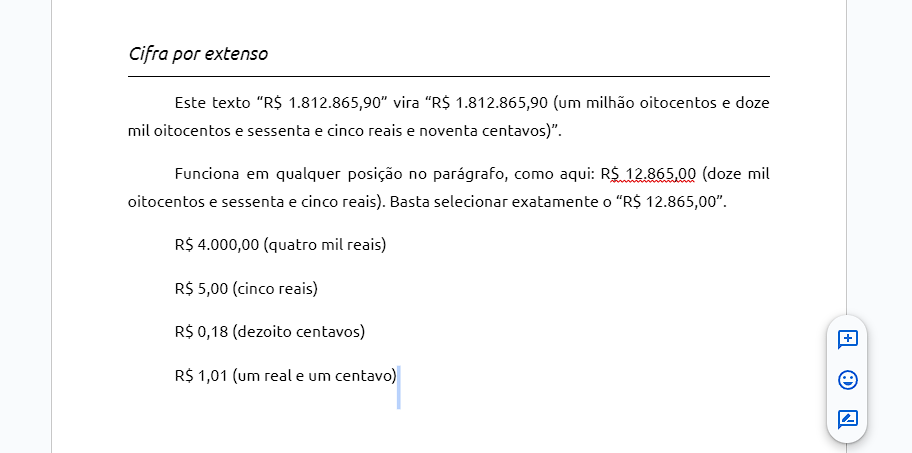
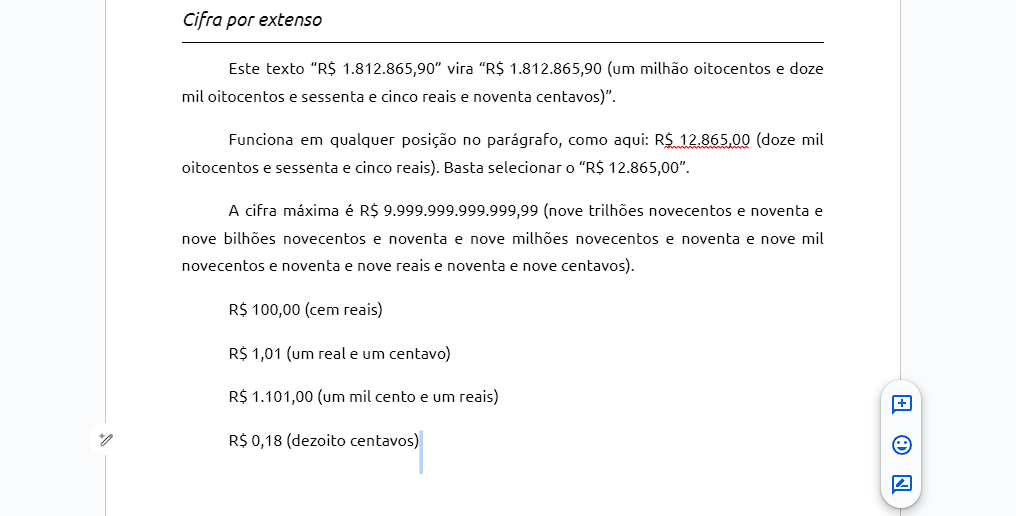
now I just have to add the CC BY-NC license on GitHub

diff --git a/code.js b/code.js
@@ -1,9 +1,9 @@
 // This is a Google Workspace Add-on (GWAO)
-// it's so the add-on can work accross the all documents on the user Docs app.
-// however, the user needs to click on the extension icon to iniate it, which is a limitation.
-// Editor Add-ons would work fine with just an onOpen(e) simple trigger for this extension.
-// However, Editor Add-ons needs to be bound and activated by the user for each document.
-// And activating it in document templates from Google Docs wouldn't transfer to the copies it creates.
+  // it's so the add-on can work accross the all documents on the user Docs app.
+  // The user needs to click on the extension icon to iniate it, which is a limitation of any GWAO.
+// On the other hand, an Editor Add-on would work fine with just an onOpen(e) simple trigger for this script.
+  // However, Editor Add-ons needs to be bound and activated by the user for each document, unlike GWAO.
+  // And activating it in document templates from Google Docs wouldn't transfer to the copies it creates.
 // It's using the CardService instead of HtmlService for the UI (sidebar).
 
 const doc = DocumentApp.getActiveDocument();
@@ -74,24 +74,24 @@ function updateLastDateToToday() {
   // Get today's date
   const today = new Date();
   
-  // Format the date in Portuguese
+  // Format the date in pt-br
   const options = { day: '2-digit', month: 'long', year: 'numeric' };
   const formattedDate = new Intl.DateTimeFormat('pt-BR', options).format(today);
   
   // Convert the formatted date to lowercase
   const formattedDateLowerCase = formattedDate.toLowerCase();
   
-  // Regular expression to match dates in the format "d de MMMM de yyyy" or "dº de MMMM de yyyy"
+  // Regular expression to also match dates in the format "d de MMMM de yyyy" and "dº de MMMM de yyyy"
   const datePattern = /\d{1,2}º? de [a-zçáéíóúãõ]+ de \d{4}/gi;
   
-  // Get the text of the document
+  // Get the text of the whole document
   const text = body.getText();
   
   // Find all matches of the date pattern
   const matches = text.match(datePattern);
   
   if (matches && matches.length > 0) {
-    // Get the last match
+    // Get the last match of the date pattern
     const lastMatch = matches[matches.length - 1];
     
     // Replace the last matched date with the formatted current date
@@ -99,18 +99,20 @@ function updateLastDateToToday() {
   }
 }
 
+// This is an algorithm I contributed with on Stack Overflow
+// I contributed by propely handling single-digits, solving special cases and adding proper formatting
 function escreverPorExtenso(vlr) {
   var Num = parseFloat(vlr);
-  var result = ""; // Use a variable to store the result instead of direct DOM manipulation
+  var result = ""; // Varieble to store the result
 
   if (vlr == 0) {
     result = "zero";
   } else if (vlr > 999 * 1e12) {
     return "Numero maior que 999 trilhões";
   } else {
-    var inteiro = parseInt(vlr); // parte inteira do valor
+    var inteiro = parseInt(vlr); // Integer part of the number
     if (inteiro < 1000000000000000) {
-      var resto = Num.toFixed(2) - inteiro.toFixed(2); // parte fracionária do valor
+      var resto = Num.toFixed(2) - inteiro.toFixed(2); // Decimal part of the number
       resto = resto.toFixed(2);
       var vlrS = inteiro.toString();
 
@@ -172,7 +174,7 @@ function escreverPorExtenso(vlr) {
           auxnumero3 = vlrS.substring(cont - i - 1, cont - i);
           console.log(auxnumero3);
           console.log(extenso);
-          if (auxnumero3 !== "" && auxnumero3 !== "0" && auxnumero3 !== "1")
+          if ((auxnumero3 !== "1" || auxnumero > 9) && auxnumero3 !== "0")
             extenso=extenso+unidade[auxnumero];
               console.log(extenso);
 
@@ -239,34 +241,36 @@ function escreverPorExtenso(vlr) {
           else extenso += " centavos";
       }
 
-      // Handle singular for "real" and "centavo"
+      // Handle special cases
       if (inteiro === 1) {
           extenso = extenso.replace("reais", "real");
       }
       if (resto === 1) {
           extenso = extenso.replace("centavos", "centavo");
       }
-      // Handle special case for "cem reais" (100 reais)
       if (inteiro === 100) {
         extenso = extenso.replace("cento  reais", "cem reais");  
         extenso = extenso.replace("cento reais", "cem reais");
       }
-      // Handle special case for "zero reais" (100 reais)
       if (inteiro === 0) {
         extenso = extenso.replace("reais  e ", "");
         extenso = extenso.replace("reais e ", "");
       }
-      // // Handle special case for "mil reais" (1000 reais)
+      // // Handle special case for "mil reais" (1000 reais) (optional)
       // if (inteiro === 1000) {
       //     extenso = extenso.replace("um mil reais", "mil reais");
       // }
 
-      extenso.trim(); // Remove whitespace from both sides of the string
+      // Proper formatting
+      while (extenso.includes("  ")) {
+        extenso = extenso.replace("  ", " ");
+      }
+      extenso.trim();
 
-      result = extenso; // Assign the final result to the variable
+      result = extenso;
     }
   }
-  return result; // Return the result instead of using document.getElementById
+  return result;
 }
 
 
@@ -292,7 +296,6 @@ function converterParaExtenso() {
         Logger.log('endOffset is ' + endOffset);
         Logger.log('selectedText is ' + selectedText);
         
-        // Updated regex pattern to support both formats: with or without the thousands separator
         const pattern = /(?:\s|R\$|\$)(\d{1,3}(?:\.\d{3})*,\d{2}|\d{1,3},\d{2})/g;
        
         let newText = selectedText;
@@ -301,42 +304,35 @@ function converterParaExtenso() {
         while ((match = pattern.exec(selectedText)) !== null) {
           let currencyString = match[1];
           
-          // Remove periods and replace commas for decimal format        
+          // Prepare the R$ cypher to parseFloat it in escreverPorExtenso()
           let textContent = currencyString.replace(/\./g, '').replace(',', '.');
 
           // Call escreverPorExtenso to convert the number to text
           let convertedText = escreverPorExtenso(textContent);
 
-          
-          // Clean up any unnecessary spaces
-          convertedText = convertedText.replace(/\s{2,}/g, ' ').trim();
-          while (convertedText.includes("( ")) {
-            convertedText = convertedText.replace("( ", "(");
-          }
-          while (convertedText.includes(" )")) {
-            convertedText = convertedText.replace(" )", ")");
-          }
-          
+          // Now I create the actual output         
           newText = newText.replace(currencyString, `${currencyString} (${convertedText})`).trim();
           Logger.log('newText is ' + newText);
         }
 
+        // Return feedback to the user
         while ((match = pattern.exec(selectedText)) === null) {
           return DocumentApp.getUi().alert('Selecione apenas uma cifra e verifique se há o espaço entre $ e os números');
         }
-
         if (!selectedText.includes('R$')) {
           DocumentApp.getUi().alert('Se não for valor em reais ajuste o texto manualmente!');
         }
 
         if (newText !== selectedText) {
-          // Inserir o texto convertido no mesmo lugar do texto selecionado
+          // Insert the convertedText at the same position as the the currencyString in Google Docs
           Logger.log('newText after loop is ' + newText);
-          newText += ' '; // Concatenar um espaço no final para posicionar o cursor
+          // Concatenate a space at the end of the string to position the cursor at it (so the user doesn't have to leave the keyboard)
+          newText += ' ';
           textElement.deleteText(startOffset, endOffset);
           textElement.insertText(startOffset, newText);
 
-          // Colocar o cursos no final de newText para seguir escrevendo, colocando - 1 para selecionar o espaço recém concatenado
+          // Put the cursor at the end of newText, then position -1 to select the space we concatenated to it (so the user can keep on writting)
+          // The user will be able to press Shift + Tab (move to the Close button) and Enter to close the GAWO UI and the cursor will be positioned already
           const newEndOffset = startOffset + newText.length - 1;
           const rangeBuilder = doc.newRange();
           rangeBuilder.addElement(textElement, newEndOffset, newEndOffset);

diff --git a/test.js b/test.js
@@ -71,7 +71,7 @@ function escreverPorExtenso(vlr) {
             auxnumero3 = vlrS.substring(cont - i - 1, cont - i);
             console.log(auxnumero3);
             console.log(extenso);
-            if (auxnumero3 !== "" && auxnumero3 !== "0" && auxnumero3 !== "1")
+            if ((auxnumero3 !== "1" || auxnumero > 9) && auxnumero3 !== "0")
               extenso=extenso+unidade[auxnumero];
                 console.log(extenso);
   
@@ -159,6 +159,10 @@ function escreverPorExtenso(vlr) {
         // if (inteiro === 1000) {
         //     extenso = extenso.replace("um mil reais", "mil reais");
         // }
+
+        while (extenso.includes("  ")) {
+          extenso = extenso.replace("  ", " ");
+        }
   
         extenso.trim(); // Remove whitespace from both sides of the string
   
@@ -168,5 +172,6 @@ function escreverPorExtenso(vlr) {
     return result; // Return the result instead of using document.getElementById
   }
 
-vlr = 1109.00;
+// To test a value for escreverPorExtenso(vlr), just run node test.js on the terminal
+vlr = 9921121112.00;
 console.log(escreverPorExtenso(vlr));

diff --git a/README.md b/README.md
@@ -1,9 +1,44 @@
-I still need to handle a new bug for single digits:
-- 102.18 to "cento e doisdois reais  e dezoito centavos" (incorrect).
-- 2.18 to "dois reais  e dezoito centavos" (correct).
-- 101.18 to "cento e umum reais  e dezoito centavos" (incorrect).
+# Extenso para Docs
+## A Google Workspace Add-on for Google Docs
+This extension for Google Docs is available free of cost for all users from Brazil. It adds to Google Docs two important resources Microsoft Word has.
 
-I'll also have a runtime error that terminates the app (user needs to refresh the page) if:
-- the user selects more than one "R$ x.xxx,xx" structures.
-- the user selects a cipher without the "." thousands separator (for pt-br), like in "R$ 1000,00".
-- if there is no space between "$" and the numbers string, like in "R$1.000,00".
+Both functions are accessed through buttons on the extension interface at the Google Docs sidepanel.
+
+### Updated written date:
+This function identifies the last ocurrency of a date on any of the following formats (dd of MMMM of yyyy) and updates it the the current date.
+
+Example formats:
+- "1º de janeiro de 1915"
+- "2 de maço de 2023"
+- "25 de agosto de 2024"
+
+Law firms and other businesses will tipically have the current date in this format at the end of every document.
+
+### Cypher written in full:
+This function writtes in full R$ cyphers. The user selects a text with a cypher (i.e. R$ 12.865,72) and presses the button on the extension UI. The algorithm changes it from "R$ 12.865,72" to "R$ 12.865,72 (doze mil oitocentos e sessenta e cinco reais e setenta e dois centavos)".
+
+It will also concatenate a space to the end of the string and put the cursor selection on it. This allows the user to close the extension UI and continuing on writting without leaving the keyboard or having to reach the mouse.
+
+Esta função escreve uma cifra em R$ por extenso. Para usá-lo, selecione um texto com uma cifra (i.e. R$ 12.865,72) e clique no botão. O algoritmo vai substituir "R$ 12.865,72" por "R$ 12.865,72 (doze mil oitocentos e sessenta e cinco reais e setenta e dois centavos)". A função também adiciona um espaço ao final e deixa o cursor selecionado sobre esse espaço. Isso serve para que você já possa adicionar um ponto, vírgula, ou seguir escrevendo sem interrupções e sem precisar pegar o mouse.
+
+Ambas as funções são acessadas pela interface da extensão no painel lateral de extensões do seu Google Docs. Caso não esteja aparecendo esse painel para você, procure o botão de seta (quase invisível) no canto inferior direito da tela do seu Google Docs.
+
+## Google Workspace Marketplace description (pt-br):
+### Nome do aplicativo:
+Extenso para Docs
+
+### Descrição curta:
+Atualiza a data de assinatura e escreve cifra por extenso.
+
+### Descrição detalhada:
+Data atualizada:
+Esta função identifica a última data do documento que esteja de acordo com qualquer um dos formatos a seguir e atualiza para a data atual, escrita por extenso: "1º de janeiro de 1915" ou "2 de maço de 2023" ou "25 de agosto de 2024".
+
+Cifra por extenso: 
+Esta função escreve uma cifra em R$ por extenso. Para usá-lo, selecione um texto com uma cifra (i.e. R$ 12.865,72) e clique no botão. O algoritmo vai substituir "R$ 12.865,72" por "R$ 12.865,72 (doze mil oitocentos e sessenta e cinco reais e setenta e dois centavos)". A função também adiciona um espaço ao final e deixa o cursor selecionado sobre esse espaço. Isso serve para que você já possa adicionar um ponto, vírgula, ou seguir escrevendo sem interrupções e sem precisar pegar o mouse.
+
+Ambas as funções são acessadas pela interface da extensão no painel lateral de extensões do seu Google Docs. Caso não esteja aparecendo esse painel para você, procure o botão de seta (quase invisível) no canto inferior direito da tela do seu Google Docs.
+
+License: This source code is licensed under CC BY-NC (Creative Commons Attribution-NonCommercial).
+Credits attribution: https://extensoparadocs.carlosalegre.com
+Author: @Quemediga
